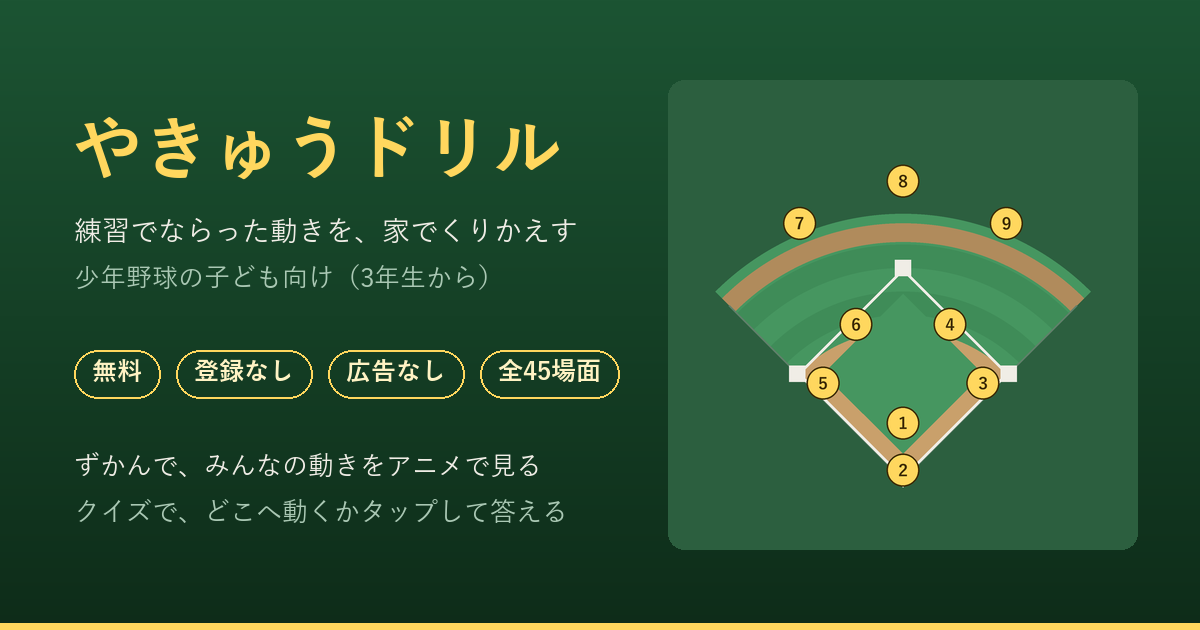
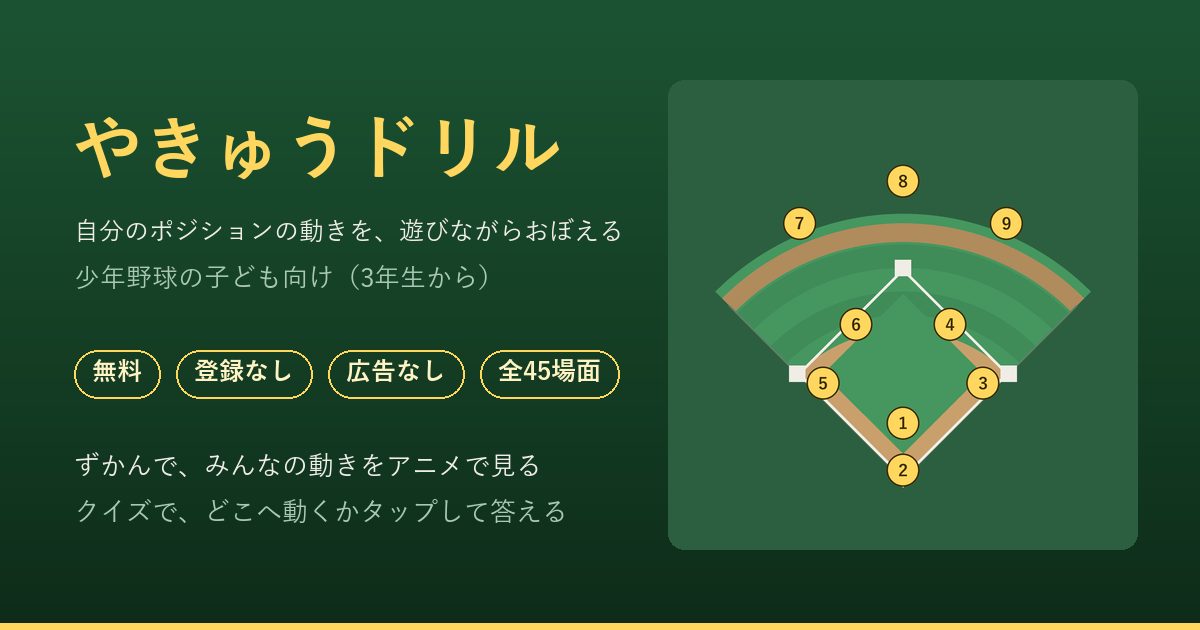
ターゲットは子ども。指導者の復習道具やない（とと 訂正）：「子どもが『自分のポジションの動き、おぼえたい』と思ったときに、遊びながらおぼえるクイズ」へ

Changed region(s): [[0.0617, 0.3317, 0.5242, 0.3921]]

diff --git a/index.html b/index.html
@@ -13,12 +13,12 @@
 
 <!-- SNS・LINEに貼った時のプレビュー（OGP）。
      ★og:image は絶対URLでないと出ん（LINE・Xの仕様）。画像は gen_ogp.py で作る。 -->
-<meta name="description" content="練習でならった動きを、家でくりかえして身につけるための少年野球のドリル。9つのポジションの守備25場面と、バッター・ランナー・コーチャーの走塁20場面。無料・登録なし・広告なし。">
+<meta name="description" content="子どもが「自分のポジションの動き、おぼえたい」と思ったときに、遊びながらおぼえる少年野球のクイズ。9つのポジションの守備25場面と、バッター・ランナー・コーチャーの走塁20場面。無料・登録なし・広告なし。">
 <meta property="og:type" content="website">
 <meta property="og:site_name" content="やきゅうドリル">
 <meta property="og:locale" content="ja_JP">
-<meta property="og:title" content="やきゅうドリル｜練習でならった動きを、家でくりかえす">
-<meta property="og:description" content="練習でならった動きを、家でくりかえして身につけるための少年野球のドリル。9つのポジションの守備25場面と、バッター・ランナー・コーチャーの走塁20場面。無料・登録なし・広告なし。">
+<meta property="og:title" content="やきゅうドリル｜自分のポジションの動きを、遊びながらおぼえる">
+<meta property="og:description" content="子どもが「自分のポジションの動き、おぼえたい」と思ったときに、遊びながらおぼえる少年野球のクイズ。9つのポジションの守備25場面と、バッター・ランナー・コーチャーの走塁20場面。無料・登録なし・広告なし。">
 <meta property="og:url" content="https://shintaro60320-blip.github.io/yakyu-drill/">
 <meta property="og:image" content="https://shintaro60320-blip.github.io/yakyu-drill/ogp.png">
 <meta property="og:image:width" content="1200">
@@ -246,10 +246,10 @@ button[disabled] { opacity: .45; cursor: default; }
 
   <div class="about">
     <b>やきゅうドリル</b>　作った人：【とと】（少年野球の保護者）<br>
-    <b>練習でならった動きを、家でくりかえして身につけるためのドリル</b>です。<br>
+    子どもが「<b>自分のポジションの動き、おぼえたい</b>」と思ったときに、<b>遊びながらおぼえるクイズ</b>です。<br>
     無料です。広告も、登録も、記録の送信もありません。
     <ul>
-      <li>・ここに出てくるのは<b>一般的な基本の形</b>です。チームの教え方とちがうところがあったら、<b>その「ちがい」に気づけたことが学び</b>です。試合で動くのは、監督・コーチに教わったとおりに。</li>
+      <li>・ここに出てくるのは<b>一般的な基本の形</b>です。チームの教え方とちがうところがあったら、<b>その「ちがい」に気づけたことが学び</b>です。試合では、監督・コーチの教えが本物です。</li>
       <li>・<b>ホーム画面に追加</b>すると、アプリのように使えます。LINEなどの中でひらいた人は、先に「<b>ブラウザで開く</b>」（Safari・Chrome）を選んでから追加してください。</li>
       <li>・アップデートやサポートの予定はありません。</li>
       <li>・感想はうれしいです。ただ、返信や修正はお約束できません。<br>
